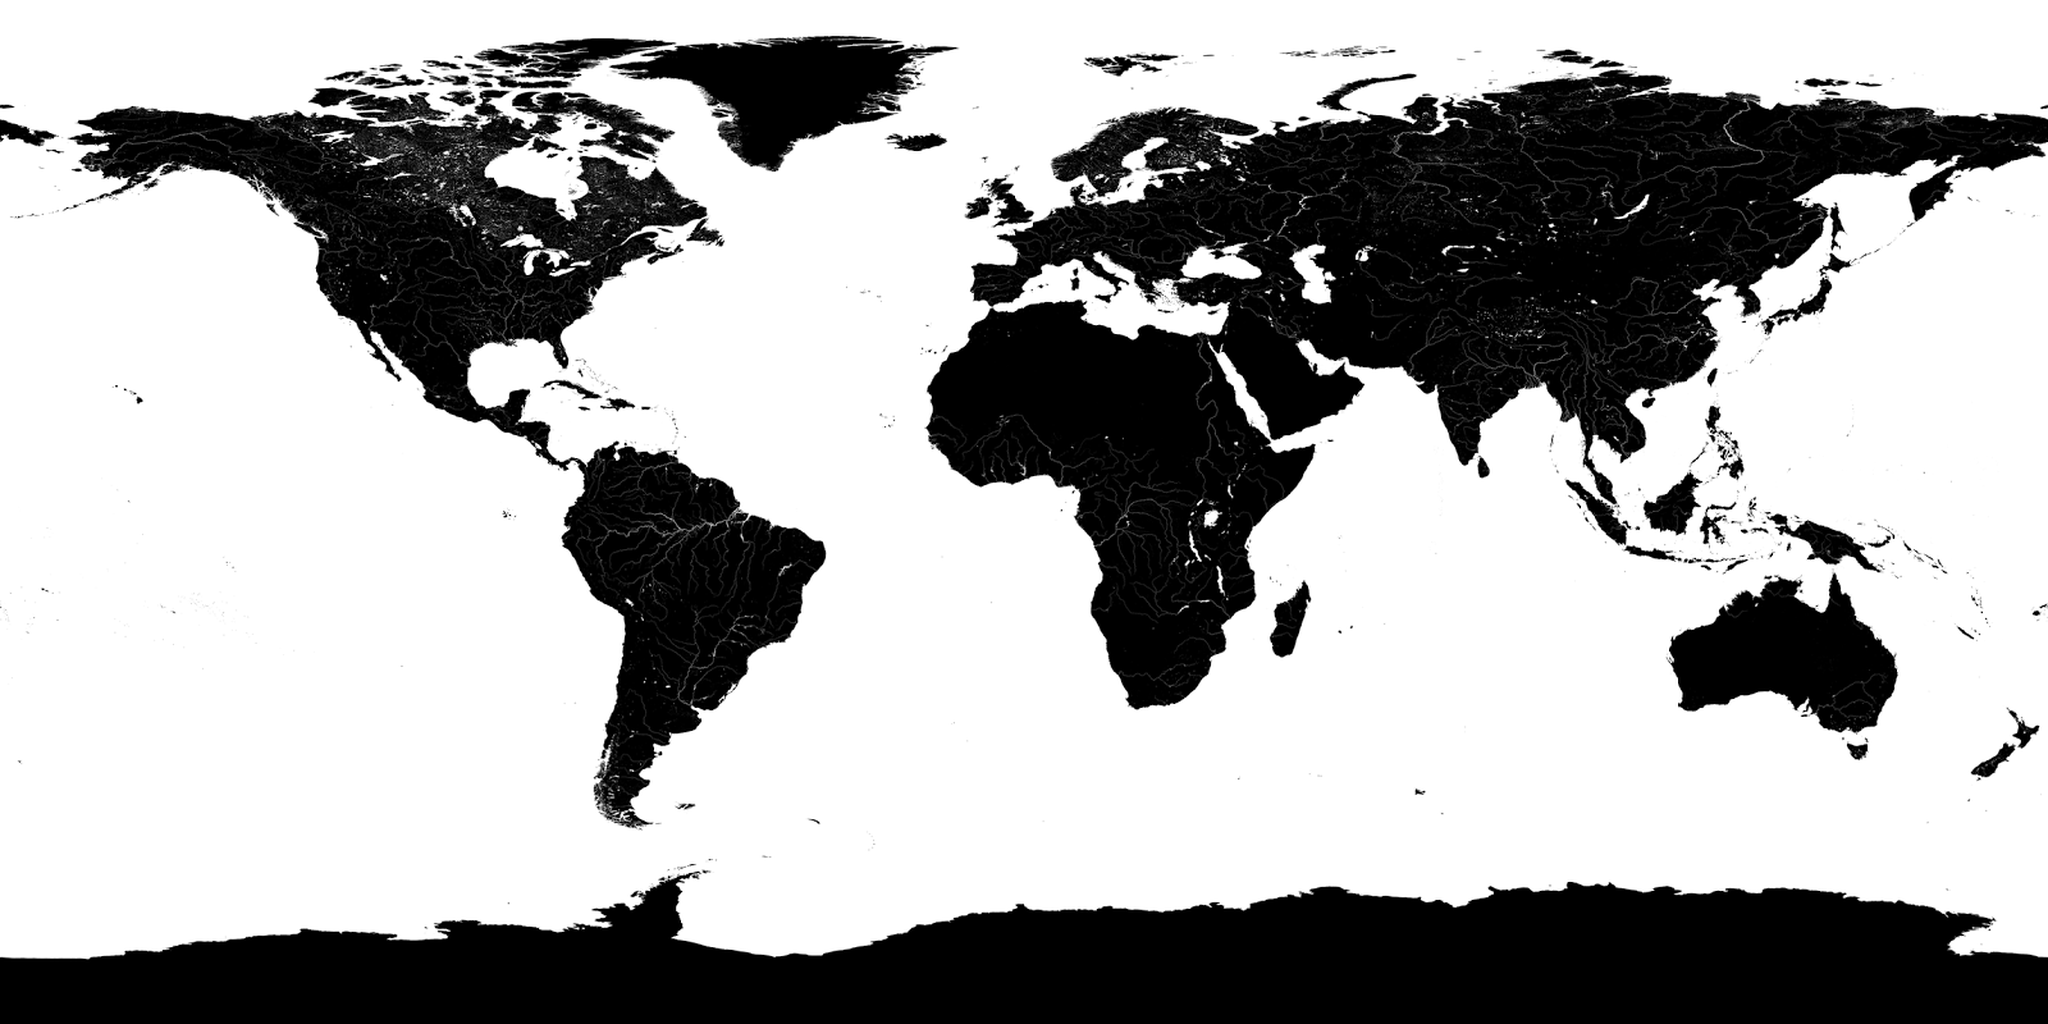
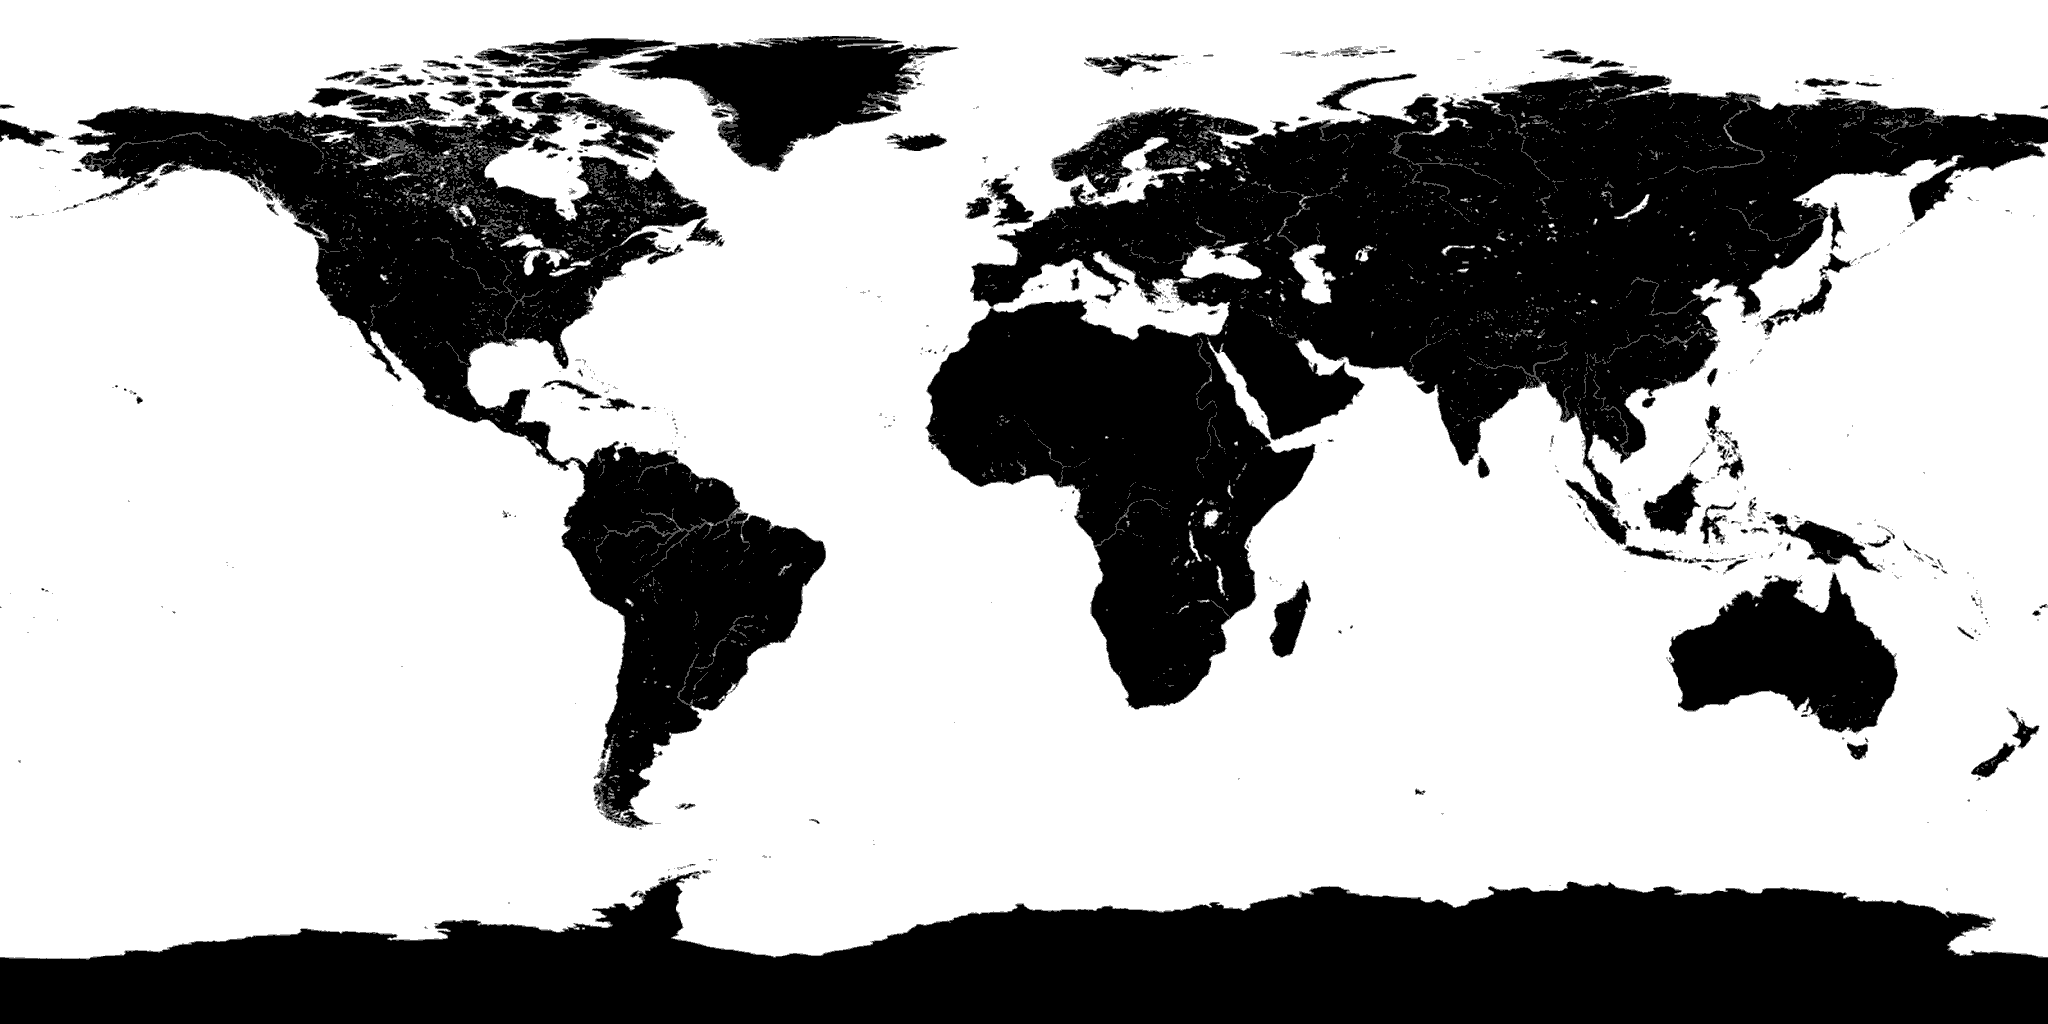
ให้ลูกโลกบนมือถือโหลดเร็วขึ้น ใช้เน็ตน้อยลงเกือบครึ่ง
พี่บอกว่าแผนที่ดูหน่วงและโหลดช้า พอวัดดูพบว่ามือถือต้องโหลดภาพลูกโลกราว 1.47 MB
ทันทีที่ภาพแรกขึ้น ระบบยังดึงแผนที่น้ำ (PNG 345 KB) กับไฟเมือง 4K (303 KB) ตามมาติดๆ
แข่งกับการวาดภาพจนรู้สึกหน่วง

ตอนนี้แผนที่น้ำเหลือ 51 KB (ขนาดภาพเท่าเดิม ใช้เฉดเทาแค่ 4 ระดับ ซึ่งพอสำหรับแสงสะท้อนทะเล)
และไฟเมืองละเอียดบนมือถือจะรอจนผู้ใช้ซูมเข้าไปจริง เหมือนภาพกลางวันกับเมฆ 4K
มือถือเลยโหลดแค่ 817 KB ส่วนบนคอมยังได้ภาพคมเหมือนเดิมค่ะ

Claude-Session: https://claude.ai/code/session_01C6X28GvHcvuL1W91ri4vK3

diff --git a/static/cockpit_earth.js b/static/cockpit_earth.js
@@ -217,12 +217,13 @@
   var can8k = gl.getParameter(gl.MAX_TEXTURE_SIZE) >= 8192 && !conn.saveData;
   // มือถือ/เครื่องแรมน้อย/เน็ตช้า: ภาพ 4K (ราว 2.6 MB) ยังไม่โหลดจนกว่าจะซูมเข้าไปดูจริง — ทั้งโลกภาพ 2K ก็คมพอบนจอเล็ก
   var light = Math.min(screen.width, screen.height) < 700 || (navigator.deviceMemory || 8) <= 4 || /2g|3g/.test(conn.effectiveType || '');
-  var got4k = false, firstIn = false;
+  var got4k = false, firstIn = false, LIGHTS_HI = can8k && !light ? 'lights_8k.jpg' : 'lights_4k.jpg';
   function maybe4k() {
     if (got4k || !firstIn || !can4k || (light && S.tL < 2 && !SHIP.on)) return;
     got4k = true;
     // ไฟเมือง 8K (NASA Black Marble 2016 · เห็นถนนเป็นใยแสง) เฉพาะเครื่องที่รับภาพ 8192 ได้และไม่ใช่เครื่องเบา — ไฟล์ราว 1 MB เพราะเป็นภาพขาวดำ
     load(1, 'day_4k.jpg'); load(2, 'clouds_4k.jpg');      // 4K หลังภาพแรกขึ้นแล้ว — เน็ตช้าไม่ต้องรอ
+    if (light) load(0, LIGHTS_HI);                         // มือถือ: ไฟเมืองละเอียดรอซูมเหมือนกัน (เดิมโหลดทันทีอีก 0.3 MB)
   }
   function firstDone() {
     if (--pending > 0) return;
@@ -230,7 +231,7 @@
     load(3, 'water.png', function () { hasW = 1; });
     firstIn = true;
     // ไฟเมืองละเอียดโหลดทันที ไม่ต้องรอซูม: ภาพขาวดำเล็กมาก (4K ราว 0.3 MB · 8K ราว 1 MB) แต่ทำให้เมืองแยกเป็นดวงและเห็นถนน
-    if (can4k) load(0, can8k && !light ? 'lights_8k.jpg' : 'lights_4k.jpg');
+    if (can4k && !light) load(0, LIGHTS_HI);
     maybe4k();
     safeArrive();
   }

diff --git a/tests/test_universe_showcase.py b/tests/test_universe_showcase.py
@@ -99,8 +99,15 @@ def test_phone_does_not_download_4k_until_zoom():
     """มือถือเคยโหลดภาพ 4K ทั้งสามภาพ (~2.6 MB) ทันทีที่เปิดหน้า แม้ไม่ได้ซูม"""
     js = open("static/cockpit_earth.js", encoding="utf-8").read()
     assert "light && S.tL < 2" in js and "maybe4k();" in js           # tL ≥ 2 = ซูมลงใกล้กว่าวงโคจร 2 เท่า
-    # ภาพกลางวัน/เมฆ 4K (ก้อนใหญ่) ยังรอซูมเหมือนเดิม · ไฟเมืองละเอียด (ภาพขาวดำ ~0.3 MB) โหลดทันทีที่เดียว
+    # ภาพกลางวัน/เมฆ 4K (ก้อนใหญ่) รอซูม · ไฟเมืองละเอียด: คอมโหลดทันที มือถือรอซูมด้วย (พ.ย. 2569: หน้าแผนที่หน่วงบนมือถือ)
     assert js.count("load(1, 'day_4k.jpg')") == 1 and "load(1, 'day_4k.jpg'); load(2, 'clouds_4k.jpg');" in js
     assert js.count("'lights_4k.jpg'") == 1
+    assert "if (light) load(0, LIGHTS_HI);" in js and "if (can4k && !light) load(0, LIGHTS_HI);" in js
+
+
+def test_water_mask_is_small():
+    # แผนที่น้ำ (ใช้ทำแสงสะท้อนทะเล) เดิมเป็น PNG 256 ระดับ 345 KB → 4 ระดับ ขนาดเดิม ~51 KB
+    import os
+    assert os.path.getsize("static/earth/water.png") < 80_000
     import os
     assert os.path.getsize("static/earth/lights_4k.jpg") < 500_000
